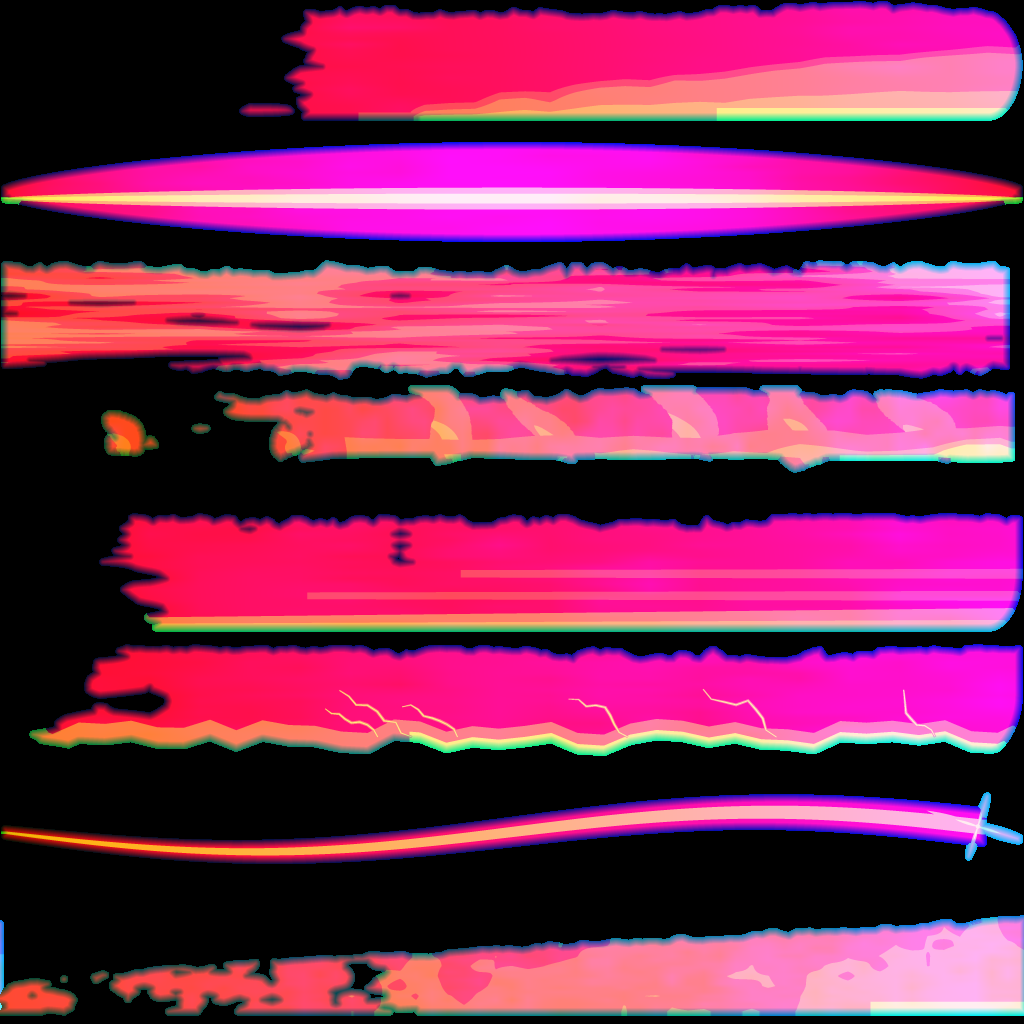
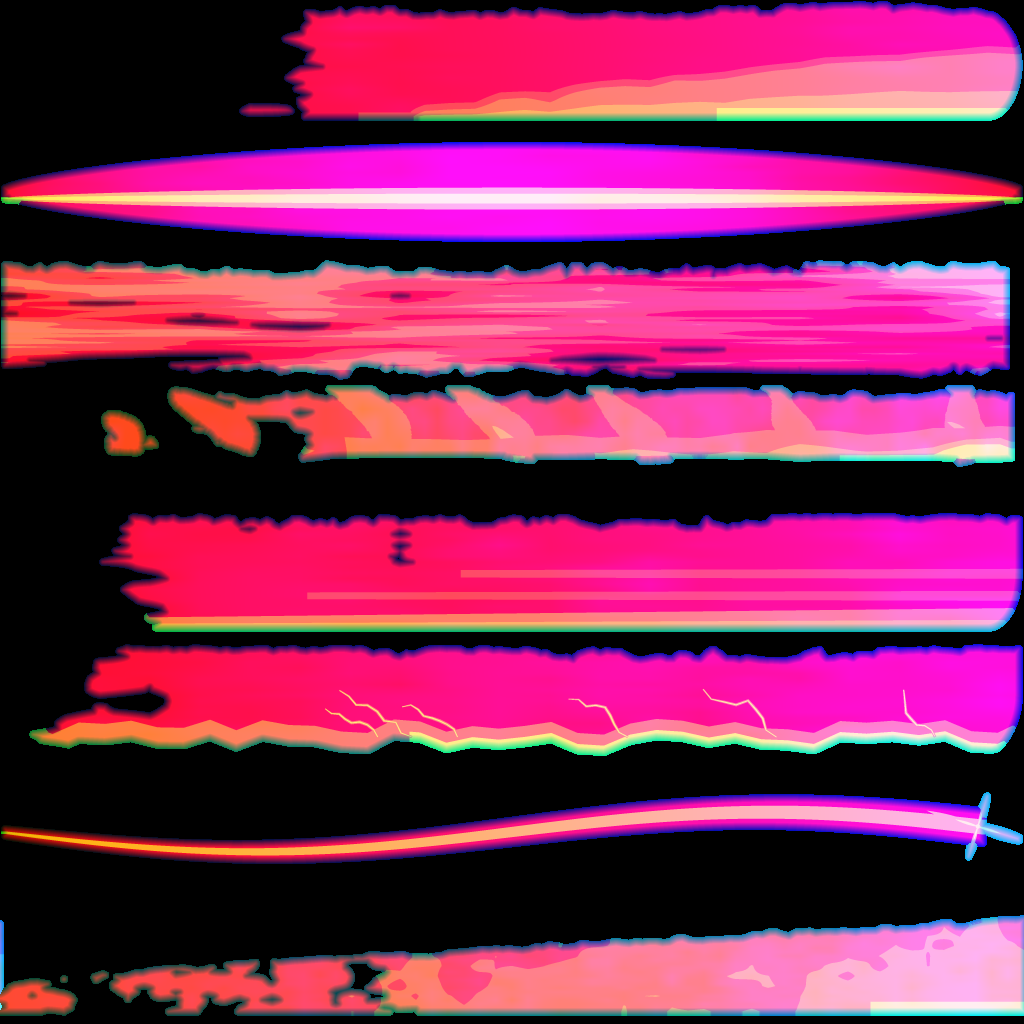
Thin the flame smear licks and note the impact ink-backing frames
The flame smear's inner light tongues now appear on about 60 % of the licks,
so the strip reads as a flame-licked crescent instead of regular stripes. The
manifest now lists ink_backing_frames (0-4) for every impact star sequence;
later frames drop the ink backing so the petals dissipate cleanly.

diff --git a/tools/vfx/atlas_strips.py b/tools/vfx/atlas_strips.py
@@ -322,8 +322,9 @@ def smear_cell(i, seed, h=128):
             poly = tongue_poly(base, hh, ww, ph, lean=-0.75 * rng.uniform(0.7, 1.2), curl=0.5, tip_curl=0.7)
             m = c.ragged(c.polys([poly]), 0.8, 0.4)
             c.paint(m, V_DEEP if t < 0.3 else V_BODY, order=0.4)
-            c.paint(c.polys([tongue_poly(base, hh * 0.5, ww * 0.42, ph + 0.3, lean=-0.75)]) & m,
-                    V_LIGHT if t > 0.35 else V_BODY, order=0.6)
+            if rng.random() < 0.6:
+                c.paint(c.polys([tongue_poly(base, hh * 0.42, ww * 0.34, ph + 0.3, lean=-0.75)]) & m,
+                        V_LIGHT if t > 0.4 else V_BODY, order=0.6)
             x += W * rng.uniform(0.1, 0.17)
         c.paint(band & (vv + jn > 0.28) & (u + jn * 0.3 > 0.3), V_BODY, order=0.45)
         c.paint(band & (vv + jn > 0.44) & (u + jn * 0.3 > 0.55), V_LIGHT, order=0.65)

diff --git a/tools/vfx/atlas_impacts.py b/tools/vfx/atlas_impacts.py
@@ -398,6 +398,7 @@ def build():
         a.put(k % 8, k // 8, cell)
     for row, n in enumerate((4, 5, 7, 9)):
         a.seq(f"star{n}", row, 8, fps=30, pivot=(0.5, 0.5), frame_times_60=STAR_TIMES, radius_in_cell=0.78,
+              ink_backing_frames=[0, 1, 2, 3, 4],
               intended={4: "crit / radiant hits, small precise hits", 5: "plain hits (0.3-0.6 m)",
                         7: "the layered-burst blast star at R", 9: "big blasts, elites, boss hits"}[n])
     a.save(fps=30)
